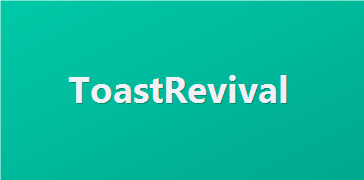
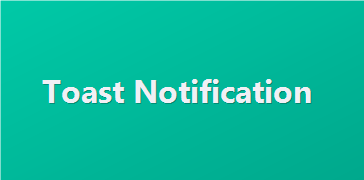
Rebrand user-facing surfaces from project name to product name
Project name (internal codename) stays ToastRevival — repo, csproj,
namespace, paths. Product name shown to users is Toast Notification
(toastnotification.com), per Keith's correction after the 0.1.0.0
install on the lab machine.

User-facing changes:
- WiX MSI: ProductName 'Toast Notification Agent', Manufacturer
  'Toast2IT, LLC', install folder %ProgramFiles%\Toast Notification,
  shortcuts named 'Toast Notification' in Startup folder and Start Menu,
  ProductVersion 0.2.0.0
- Assembly: AssemblyName=ToastNotification.Agent so the exe ships as
  ToastNotification.Agent.exe (visible in Program Files)
- Hero PNG wordmark regenerated as Toast Notification (still 364x180,
  brand teal #00C9A7)
- Program.cs console output and Plain template title flipped from
  ToastRevival to Toast Notification
- Program.cs --help usage line and error/warning strings updated

UpgradeCode unchanged so the new 0.2.0.0 MSI cleanly replaces 0.1.0.0
via Windows Installer MajorUpgrade. Signature was invalidated by the
rebuild and must be re-applied with the Thales token before deployment.

Changed region(s): [[0.0907, 0.4167, 0.8764, 0.5833]]

diff --git a/src/ToastRevival.Agent/Program.cs b/src/ToastRevival.Agent/Program.cs
@@ -6,7 +6,7 @@ var options = AgentOptions.Parse(args);
 
 if (!OperatingSystem.IsWindowsVersionAtLeast(10, 0, 19041))
 {
-    Console.Error.WriteLine("ToastRevival.Agent requires Windows 10 2004 / build 19041 or later for this spike.");
+    Console.Error.WriteLine("Toast Notification agent requires Windows 10 2004 / build 19041 or later for this spike.");
     return 2;
 }
 
@@ -42,7 +42,7 @@ try
         var notification = ToastTemplateBuilder.Build(template, assets, options.OverrideTitle, options.OverrideBody);
         AppNotificationManager.Default.Show(notification);
 
-        Console.WriteLine($"ToastRevival M0A notification sent. Template: {template.Key}");
+        Console.WriteLine($"Toast Notification sent. Template: {template.Key}");
         Console.WriteLine($"Title: {options.OverrideTitle ?? template.Title}");
         Console.WriteLine($"Body:  {options.OverrideBody  ?? template.BodyLine1}");
         if (template.BodyLine2 is { Length: > 0 } body2)
@@ -69,7 +69,7 @@ try
 }
 catch (Exception ex)
 {
-    Console.Error.WriteLine("Failed to send ToastRevival M0A notification.");
+    Console.Error.WriteLine("Failed to send Toast Notification.");
     Console.Error.WriteLine(ex);
     return 1;
 }
@@ -147,7 +147,7 @@ namespace ToastRevival.Agent
 
         private static void PrintUsageAndExit()
         {
-            Console.WriteLine("Usage: ToastRevival.Agent [options]");
+            Console.WriteLine("Usage: ToastNotification.Agent [options]");
             Console.WriteLine();
             Console.WriteLine("  --template <name>   plain | announcement | alert | action | reminder | celebration | maintenance");
             Console.WriteLine("  --title <text>      override the template title");

diff --git a/src/ToastRevival.Agent/ToastTemplates.cs b/src/ToastRevival.Agent/ToastTemplates.cs
@@ -31,7 +31,7 @@ internal static class ToastTemplateCatalog
 {
     public static ToastTemplate Plain { get; } = new(
         ToastTemplateKey.Plain,
-        Title: "ToastRevival agent spike",
+        Title: "Toast Notification agent spike",
         BodyLine1: "M0A local Windows App SDK notification is working.",
         BodyLine2: null,
         UseHeroImage: false,
